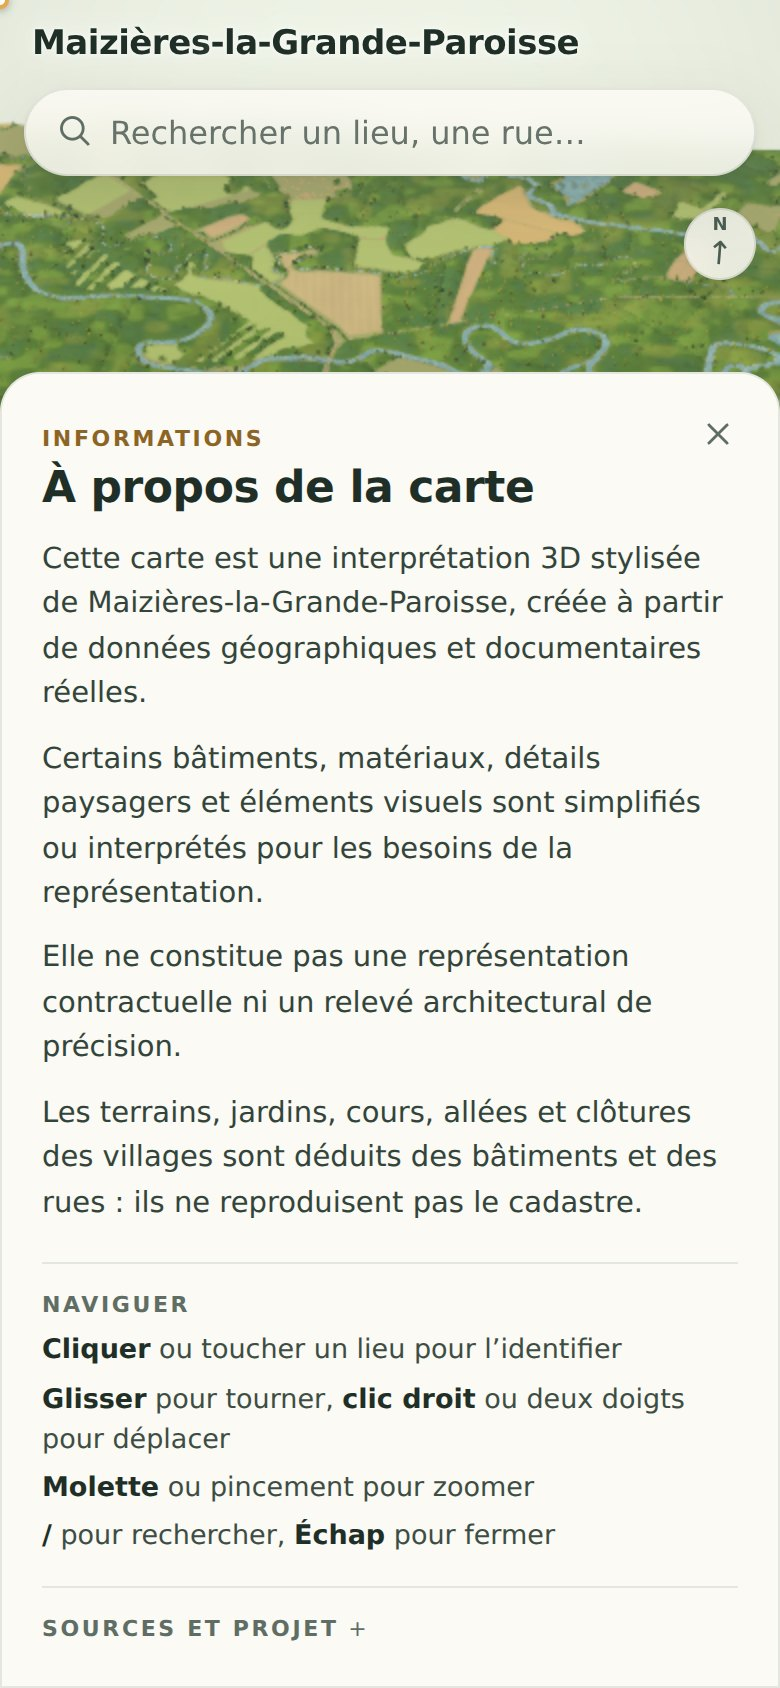
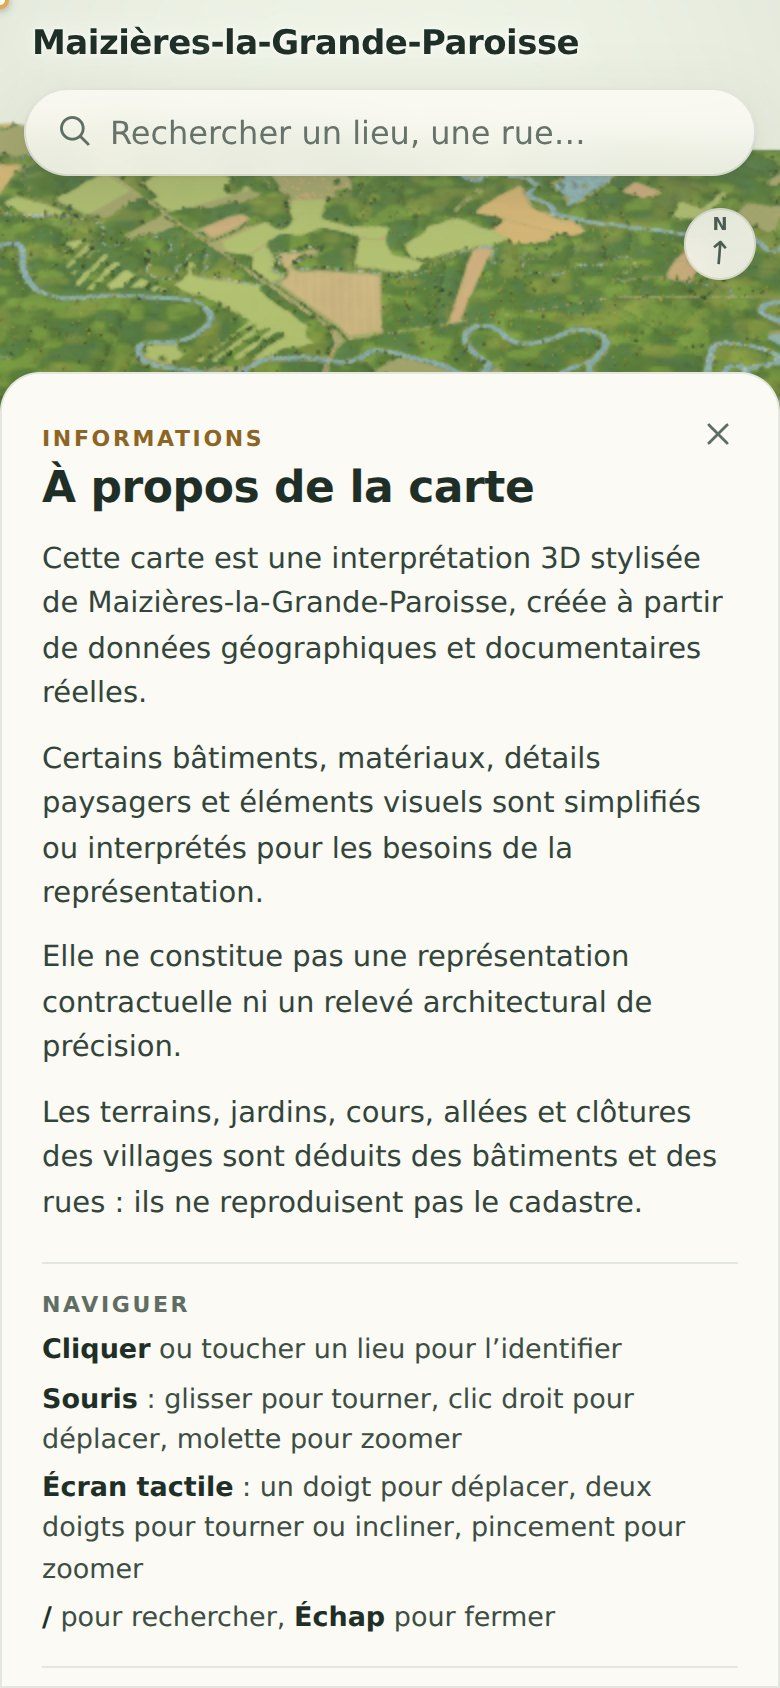
V3.3.1 - Touch gestures: one finger moves the map, two fingers turn it
- One finger pans the map on the ground plane (OrbitControls TOUCH.PAN); a
  tap still selects.
- Two fingers: twisting turns the map by the same angle (new
  src/touch-gestures.js, the twist OrbitControls lacks), dragging sideways
  turns, dragging up or down tilts within the existing limits, pinching zooms
  (TOUCH.DOLLY_ROTATE).
- Mouse unchanged (drag to turn, right button to move, wheel to zoom).
- Info panel help lists mouse and touch separately.
- Verified with real touch events in Chromium (CDP); report section 19, QA,
  README, NOTES; version 3.3.1.

Claude-Session: https://claude.ai/code/session_01KMAuj49r2TEDjaUcKgC9xW

Changed region(s): [[0.0615, 0.8009, 0.8615, 0.9858]]

diff --git a/src/touch-gestures.js b/src/touch-gestures.js
@@ -1,0 +1,20 @@
+import * as THREE from 'three';
+
+// Touch gestures on the map, as in map applications: one finger moves the map; two fingers turn it (twisting the
+// fingers, or dragging both sideways), tilt it (dragging both up or down) and zoom (pinch). The mouse keeps its
+// bindings (left button turns, right button moves, wheel zooms).
+// OrbitControls handles one-finger pan and two-finger pinch / drag (TOUCH.DOLLY_ROTATE); the twist is added here: the
+// change of angle between the two fingers turns the camera around the target by the same angle, so the map follows
+// the fingers.
+export function installTouchGestures(controls,camera,element){
+ controls.touches={ONE:THREE.TOUCH.PAN,TWO:THREE.TOUCH.DOLLY_ROTATE};
+ const touches=new Map(),up=new THREE.Vector3(0,1,0),offset=new THREE.Vector3();let previous=null;
+ const angle=()=>{const [a,b]=[...touches.values()];return Math.atan2(b.y-a.y,b.x-a.x);};
+ const reset=()=>{previous=touches.size===2?angle():null;};
+ element.addEventListener('pointerdown',e=>{if(e.pointerType!=='touch')return;touches.set(e.pointerId,{x:e.clientX,y:e.clientY});reset();});
+ element.addEventListener('pointermove',e=>{const t=touches.get(e.pointerId);if(!t)return;t.x=e.clientX;t.y=e.clientY;
+  if(previous===null||touches.size!==2||!controls.enabled)return;const a=angle();let d=a-previous;d=Math.atan2(Math.sin(d),Math.cos(d));previous=a;
+  if(Math.abs(d)<1e-4)return;offset.copy(camera.position).sub(controls.target).applyAxisAngle(up,d);camera.position.copy(controls.target).add(offset);controls.update();});
+ const end=e=>{if(touches.delete(e.pointerId))reset();};
+ element.addEventListener('pointerup',end);element.addEventListener('pointercancel',end);
+}

diff --git a/src/main.js b/src/main.js
@@ -1,5 +1,6 @@
 import * as THREE from 'three';
 import {OrbitControls} from 'three/addons/controls/OrbitControls.js';
+import {installTouchGestures} from './touch-gestures.js';
 import {projection,polygons,bounds,insidePoly} from './geo.js';
 import {buildLandscape} from './landscape.js';
 import {buildBuildings,PROVENANCE_COLORS,VALIDATION_COLORS,AUDIT_COLORS,diagnosticKey} from './buildings.js';
@@ -52,6 +53,8 @@ async function start(){
   // zone below it and springs back (no hard stop under the finger), and the tilt stays above 25° so the facades are never grazed.
   const ZOOM_MIN=420,ZOOM_SOFT=.72,MAX_POLAR=Math.PI*.36;
   const controls=new OrbitControls(camera,renderer.domElement);controls.enableDamping=true;controls.dampingFactor=.11;controls.rotateSpeed=.7;controls.maxPolarAngle=MAX_POLAR;controls.minDistance=ZOOM_MIN*ZOOM_SOFT;controls.maxDistance=10500;controls.screenSpacePanning=false;controls.zoomSpeed=.85;controls.zoomToCursor=true;controls.target.set(200,0,150);
+  // Touch: one finger moves the map, two fingers turn, tilt and zoom (the mouse bindings are unchanged).
+  installTouchGestures(controls,camera,renderer.domElement);
   const sunOffset=new THREE.Vector3();let shadowKey='';
   const sun=new THREE.DirectionalLight(light().sun,light().sunIntensity);sun.castShadow=true;sun.shadow.mapSize.set(quality.shadowSize,quality.shadowSize);Object.assign(sun.shadow.camera,{left:-2200,right:2200,top:2200,bottom:-2200,near:50,far:7000});sun.shadow.bias=-.00012;sun.shadow.normalBias=1.2;sun.shadow.intensity=light().shadow;
   const hemisphere=new THREE.HemisphereLight(light().sky,light().ground,light().hemisphere);scene.add(sun.target);scene.add(sun,hemisphere);

diff --git a/src/v32/ui-v32.js b/src/v32/ui-v32.js
@@ -69,7 +69,7 @@ export function installUiV32({views,onView,quality,go,names,dataDate='',interpre
   <p>Elle ne constitue pas une représentation contractuelle ni un relevé architectural de précision.</p>
   ${interpretation?`<p>${interpretation}</p>`:''}
   <h3>Naviguer</h3>
-  <ul class="info-list"><li><b>Cliquer</b> ou toucher un lieu pour l’identifier</li><li><b>Glisser</b> pour tourner, <b>clic droit</b> ou deux doigts pour déplacer</li><li><b>Molette</b> ou pincement pour zoomer</li><li><b>/</b> pour rechercher, <b>Échap</b> pour fermer</li></ul>
+  <ul class="info-list"><li><b>Cliquer</b> ou toucher un lieu pour l’identifier</li><li><b>Souris</b> : glisser pour tourner, clic droit pour déplacer, molette pour zoomer</li><li><b>Écran tactile</b> : un doigt pour déplacer, deux doigts pour tourner ou incliner, pincement pour zoomer</li><li><b>/</b> pour rechercher, <b>Échap</b> pour fermer</li></ul>
   <details class="info-sources"><summary>Sources et projet</summary><ul class="info-list">
    <li>Fond de carte : contributeurs <a href="https://www.openstreetmap.org/copyright" target="_blank" rel="noreferrer">OpenStreetMap</a> (ODbL)</li>
    <li>Bâti, relief, occupation du sol : IGN (<a href="https://geoservices.ign.fr/bdtopo" target="_blank" rel="noreferrer">BD TOPO</a>, BD ORTHO, LiDAR HD), RPG, cadastre</li>

diff --git a/README.md b/README.md
@@ -2,6 +2,8 @@
 
 Prototype local Three.js de la commune de l’Aube, code INSEE **10220**. Empreintes, voirie, voies ferrées et occupation du sol proviennent d’OpenStreetMap. Le contour communal provient de l’API Découpage administratif française.
 
+**Version 3.3.1 — gestes tactiles** : sur téléphone et tablette, un doigt déplace la carte. Deux doigts la tournent, en tournant les doigts ou en les glissant de côté, l'inclinent quand on les glisse vers le haut ou le bas, et zooment en pincement. La souris garde ses commandes (glisser pour tourner, clic droit pour déplacer, molette pour zoomer). L'aide du panneau Informations décrit les deux. Code : `src/touch-gestures.js`.
+
 **Version 3.3 — parcelles, jardins et micro-paysage** (`?visual=premium-v33`) : les villages ne sont plus une prairie où les maisons seraient posées. Chaque maison, ferme et équipement public reçoit un terrain interprété (1 073) : il est orienté sur la rue la plus proche, partagé avec les voisins et arrêté au premier champ. Il porte une pelouse tondue par famille, une cour en gravier ou une allée jusqu'à la chaussée, une terrasse, un potager, un verger. Les limites sont des haies, des murets et des clôtures discrètes : 4 375 pièces en volume en BEAUTÉ et ÉQUILIBRÉ, peintes en PERFORMANCE. S'y ajoutent des accotements enherbés le long des rues, des parvis devant les équipements publics, les trois places nommées pavées, la place du monument, et des cours en enrobé reliées aux voies dans les zones d'activité. Aucun cadastre n'est inventé ni présenté comme réel : les règles sont déterministes et documentées. Géographie et sémantique inchangées. Rapport : `docs/audit/V3.3_PARCEL_MICROLANDSCAPE.md`, captures : `docs/qa/v3.3/`.
 
 **Version 3.2 — villages premium et interface** (`?visual=premium-v32`) : les maisons en L, T et U reçoivent un toit à ailes avec noues au lieu d'un pignon sur le rectangle englobant (276 bâtiments). Les annexes accolées passent en appentis, les toits prennent la teinte de leur famille documentée (ardoise, anthracite, fibrociment, tuile brune, terre cuite), les façades une palette mature selon le matériau IGN et le type de maison. S'y ajoutent des cheminées sur règle, une assise au sol, et des bosquets à la place des taches sombres des polygones de haies. Nouvelle interface : recherche centrée, barre basse Explorer · Qualité · Informations, sélection directe de Beauté, Équilibré ou Performance (sans cycle, au même endroit), panneau « À propos de la carte » et mention permanente « interprétation 3D stylisée · non contractuelle ». Géographie et sémantique inchangées. Rapport : `docs/audit/V3.2_PREMIUM_VILLAGE_INTERFACE_EXPERIENCE.md`, captures : `docs/qa/v3.2/`.

diff --git a/QA.md b/QA.md
@@ -1,8 +1,23 @@
+# Vérification V3.3.1 — gestes tactiles, 13 octobre 2026
+
+Même branche, après `b2e2727`. Test Chromium, gestes tactiles réels (CDP), 390 × 844, PERFORMANCE, vue de départ à 1 101 m, azimut 28,1°, inclinaison 50,5° :
+
+| Geste | Résultat |
+|---|---|
+| Un doigt glissé de 150 px vers le haut | la carte suit le doigt : cible déplacée de 150 m ; distance, azimut et inclinaison inchangés |
+| Deux doigts tournés de 40° dans le sens horaire | azimut + 40,0° ; l'axe est à l'écran tourne de + 38,9°, dans le sens des doigts ; distance et cible inchangées |
+| Pincement (écart 100 → 220 px) | distance 1 101 → 551 m |
+| Deux doigts glissés de 120 px de côté | azimut − 35,2° |
+| Deux doigts glissés de 120 px vers le haut | inclinaison 50,5° → 64,8° (butée existante) |
+| Toucher simple sur l'église | Église Saint-Denis sélectionnée |
+
+La souris est inchangée. La console reste vide, `check:all` passe, et `npm run build` et `pnpm build` réussissent.
+
 # Vérification V3.3 — parcelles, jardins et micro-paysage, 13 octobre 2026
 
 Branche `opus/v3.3-parcelles-micro-paysage`, à partir de `4428344` (V3.2). Mode `?visual=premium-v33`.
 
-- **Documents** : rapport `docs/audit/V3.3_PARCEL_MICROLANDSCAPE.md`, en 18 sections : diagnostic, règles, grille d'audit, performance, verdict.
+- **Documents** : rapport `docs/audit/V3.3_PARCEL_MICROLANDSCAPE.md`, en 19 sections : diagnostic, règles, grille d'audit, performance, verdict, et le complément sur les gestes tactiles.
 - **Captures** : `docs/qa/v3.3/`.
   - `compare/` : 10 cadrages V3.2 / V3.3, dont vue générale, centre-bourg, Poussey, Les Granges, La Glacière, frange, zoom résidentiel, bâtiment public, zone d'activité et bâti ancien.
   - `details/` : agrandis 2×.

diff --git a/NOTES.md b/NOTES.md
@@ -4,6 +4,7 @@
 - **Pas de cadastre, donc des règles et pas un faux plan.** Sans parcelles dans les sources, chaque terrain se déduit de la maison et de la rue : devant sur la voie la plus proche, profondeur selon la famille, partage par diagramme de puissance, arrêt au premier champ. Le résultat est lisible et déterministe, et il reste présenté comme une interprétation.
 - **Une limite se lit par la différence, pas par le trait.** Les premières haies, sombres, épaisses et fermées en rectangle, faisaient patchwork. Deux pelouses de tons voisins, un liseré d'herbe moins tondue, une haie basse avec des trouées, et l'on voit des jardins sans voir de grille.
 - **Une cour doit mener quelque part.** Un anneau d'enrobé autour d'une halle se lit comme une ombre ; une cour qui ne touche pas la voie flotte au milieu du terrain. Seule une surface qui relie la façade à la chaussée se lit comme un accès.
+- **Sur un écran tactile, la carte se tient comme une carte.** Un doigt la fait glisser. Deux doigts la font tourner, en tournant les doigts ou en les glissant de côté, l'inclinent et la zooment. Le contrôleur de caméra ne connaît pas la rotation en tournant les doigts : l'angle entre les deux doigts fait tourner la caméra autour du point visé du même angle, et la carte suit les doigts.
 
 # Notes V3.2 — villages premium et interface, 12 octobre 2026
 

diff --git a/docs/audit/V3.3_PARCEL_MICROLANDSCAPE.md b/docs/audit/V3.3_PARCEL_MICROLANDSCAPE.md
@@ -330,3 +330,17 @@ Réserves, sans blocage :
 - Les parcelles, les limites et les cours d'activité sont des interprétations réglées par la donnée, et la carte le dit.
 - Les franges village / champ progressent moins que le cœur des villages.
 - Les temps viennent d'un rendu logiciel et sont à confirmer sur appareil.
+
+## 19. Complément V3.3.1 : gestes tactiles
+
+Demande après livraison : sur écran tactile, un doigt pour déplacer la carte, deux doigts pour la tourner.
+
+- **Un doigt** : déplacement de la carte dans le plan du sol (`TOUCH.PAN` d'OrbitControls). La carte suit le doigt ; un toucher sans glissement sélectionne toujours un lieu.
+- **Deux doigts** :
+  - **tourner les doigts** fait tourner la carte du même angle (ajout `src/touch-gestures.js`, car OrbitControls ne gère pas ce geste) ;
+  - **les glisser de côté** fait tourner la carte, **vers le haut ou le bas** l'incline, entre les butées existantes ;
+  - **pincer** zoome (`TOUCH.DOLLY_ROTATE`).
+- **Souris inchangée** : glisser pour tourner, clic droit pour déplacer, molette pour zoomer.
+- **Aide** : le panneau Informations distingue la souris et l'écran tactile (`docs/qa/v3.3/mobile/informations-v33.jpg`).
+- **Vérification** : gestes tactiles réels dans Chromium (protocole DevTools), résultats dans `QA.md`. Le rendu, la géographie et la sémantique ne changent pas.
+
